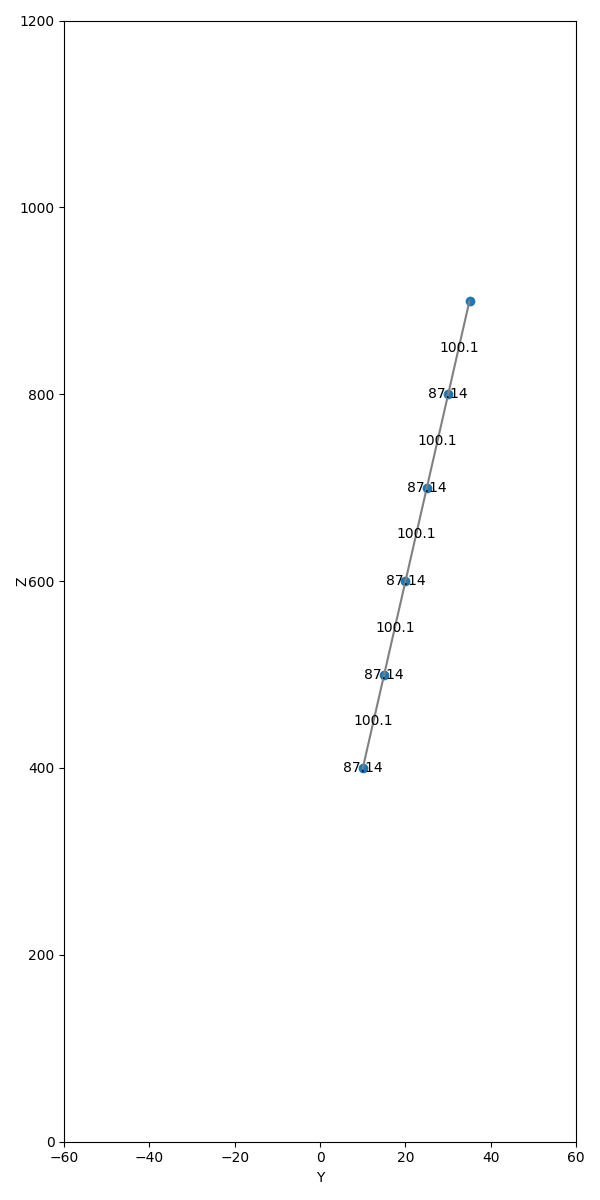
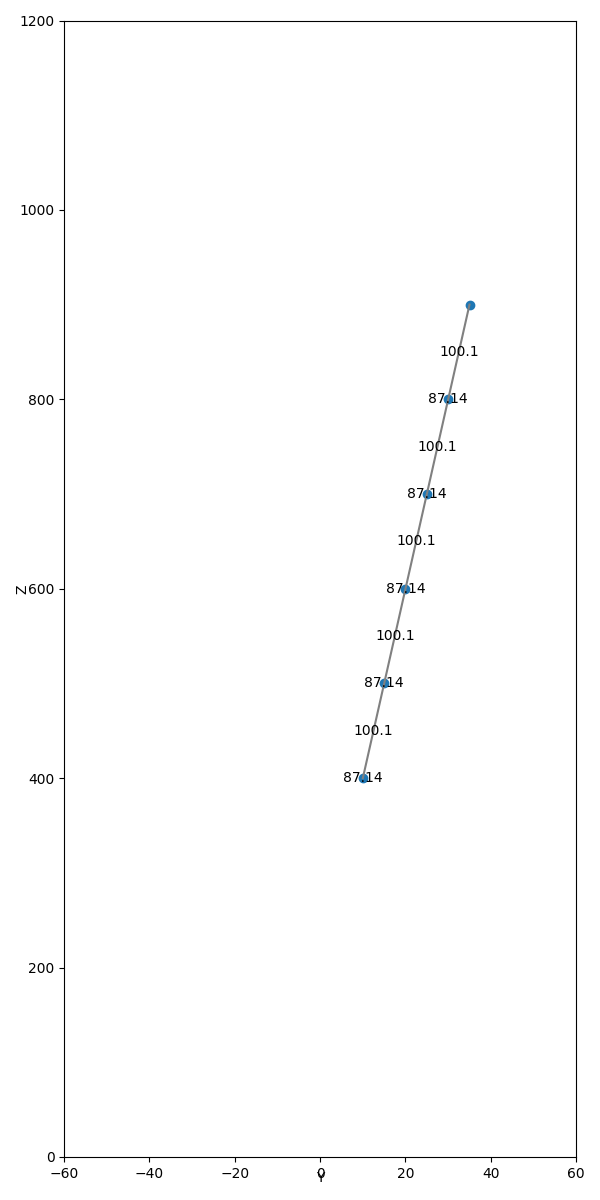
some other stuff

diff --git a/main.py b/main.py
@@ -394,11 +394,16 @@ def getUSBpokaz():
     # previewPlot()
     print("xz:")
     xzprojection = plotPoints2d(points[0], points[2], root, 'xzprojection.png', 'X')
-    xzprojection.grid(row=1, column=2, rowspan=3, columnspan=2)
+    xzprojection.grid(row=1, column=2, rowspan=3, columnspan=2, pady=20)
     print("yz:")
     yzprojection = plotPoints2d(points[1], points[2], root, 'yzprojection.png', 'Y')
-    yzprojection.grid(row=1, column=4, rowspan=3, columnspan=2)
+    yzprojection.grid(row=1, column=4, rowspan=3, columnspan=2, pady=20)
+
+    # display datetime of measurement
     now = datetime.now()
+    DataPomiaruField.delete(0,tk.END)
+    DataPomiaruField.insert(0, now.strftime("%d/%m/%Y %H:%M:%S"))
+
 
 
 def portSelect(choice):
@@ -453,10 +458,15 @@ def testPoints():
     print(points)
     # previewPlot()
     xzprojection = plotPoints2d(points[0], points[2], root, 'xzprojection.png', 'X')
-    xzprojection.grid(row=1, column=1, rowspan=3, columnspan=3, sticky="NS", pady=10)
+    xzprojection.grid(row=1, column=1, rowspan=3, columnspan=3, sticky="NS", pady=30)
     yzprojection = plotPoints2d(points[1], points[2], root, 'yzprojection.png', 'Y')
-    yzprojection.grid(row=1, column=4, rowspan=3, columnspan=2, sticky="NS", pady=10)
+    yzprojection.grid(row=1, column=4, rowspan=3, columnspan=2, sticky="NS", pady=30)
     statusBar["text"] = "wygenerowano punkty testowe"
+
+    # display datetime of measurement
+    now = datetime.now()
+    DataPomiaruField.delete(0,tk.END)
+    DataPomiaruField.insert(0, now.strftime("%d/%m/%Y %H:%M:%S"))
 
 
 # toolbar attempt, didn't work
